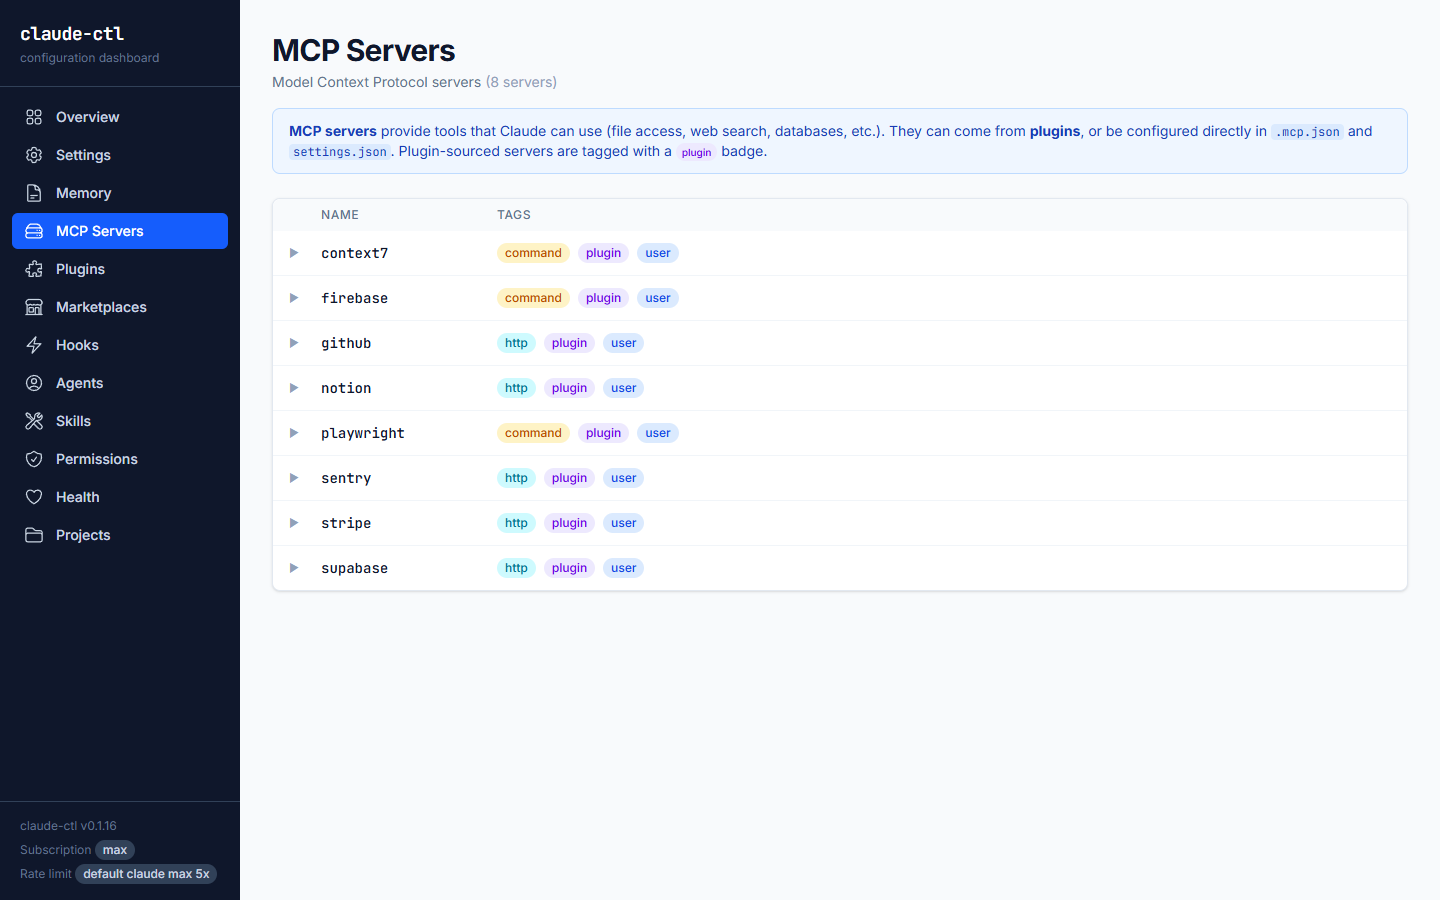
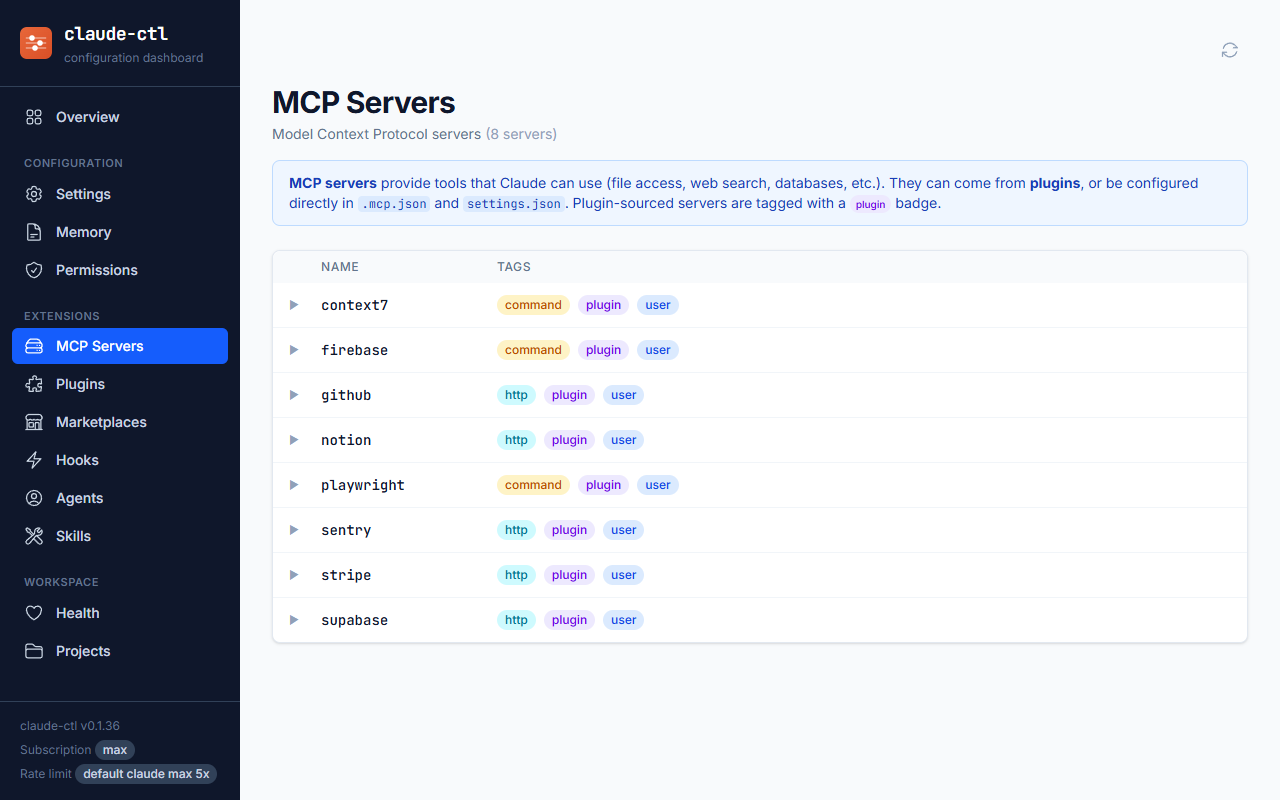
docs: update all screenshots at 1280x800 and add collapsible section
Retake all 12 dashboard screenshots at 1280x800 (16:10) to show the
full sidebar without scrollbar after v1.1 UI changes. Wrap screenshots
in a collapsible <details> block to reduce README length.

diff --git a/README.md b/README.md
@@ -153,67 +153,72 @@ This starts a local server and opens your browser at `http://localhost:3737`. Us
 claude-ctl dashboard --port 8080
 ```
 
-The dashboard includes these pages:
+The dashboard includes pages for Overview, Settings, Memory, MCP Servers, Plugins, Marketplaces, Hooks, Agents, Skills, Permissions, Health, and Projects.
 
-### Overview
-At-a-glance summary of your entire Claude Code configuration — config files found, settings, memory files, MCP servers, plugins, agents, skills, hooks, and permissions.
+<details>
+<summary><strong>Dashboard Screenshots</strong></summary>
+
+#### Overview
+At-a-glance summary of your entire Claude Code configuration.
 
 ![Overview](docs/screenshots/overview.png)
 
-### Settings
+#### Settings
 Resolved settings table with scope origin tracking and override indicators.
 
 ![Settings](docs/screenshots/settings.png)
 
-### Memory
+#### Memory
 CLAUDE.md files with content preview and import chain visualization.
 
 ![Memory](docs/screenshots/memory.png)
 
-### MCP Servers
+#### MCP Servers
 All configured MCP servers with environment variables and secrets masked.
 
 ![MCP Servers](docs/screenshots/mcp-servers.png)
 
-### Plugins
+#### Plugins
 Installed plugin packages with their bundled MCP servers and skills.
 
 ![Plugins](docs/screenshots/plugins.png)
 
-### Marketplaces
+#### Marketplaces
 Plugin repository catalog showing all available plugins across configured marketplaces.
 
 ![Marketplaces](docs/screenshots/marketplaces.png)
 
-### Hooks
+#### Hooks
 Hook configurations and the full event catalog.
 
 ![Hooks](docs/screenshots/hooks.png)
 
-### Agents
+#### Agents
 Custom AI agent definitions with tools, model configuration, and usage descriptions.
 
 ![Agents](docs/screenshots/agents.png)
 
-### Commands & Skills
+#### Commands & Skills
 Custom slash commands, skills, and plugin-provided capabilities.
 
 ![Skills](docs/screenshots/skills.png)
 
-### Permissions
+#### Permissions
 Permission rules with merged deny/ask/allow resolution. Includes inline removal for non-managed entries.
 
 ![Permissions](docs/screenshots/permissions.png)
 
-### Health
+#### Health
 Visual health score gauge with category breakdown and recommendations.
 
 ![Health](docs/screenshots/health.png)
 
-### Projects
+#### Projects
 Cross-project discovery and side-by-side configuration comparison.
 
 ![Projects](docs/screenshots/projects.png)
+
+</details>
 
 ## Config Scopes
 
